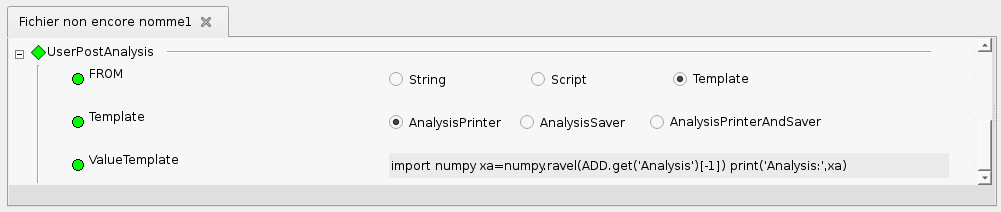
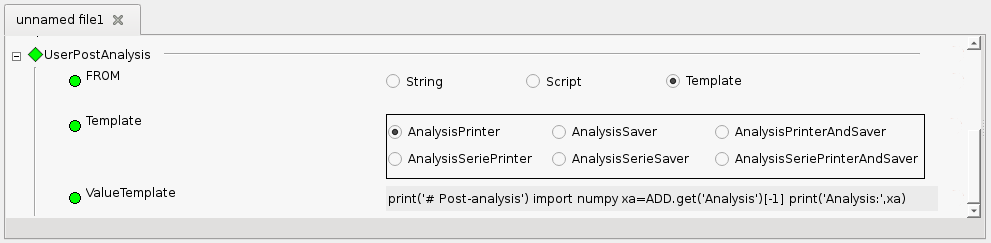
Minor documentation and code review corrections (6)

diff --git a/bin/AdaoCatalogGenerator.py b/bin/AdaoCatalogGenerator.py
@@ -166,15 +166,24 @@ def F_{data_name}(statut, fv=NoCheckInNS) : return FACT(
         SCRIPTWITHSWITCH_FILE = SIMP(statut = "o", typ = "FichierNoAbs", validators=[OnlyStr(), FileExtVal('py')], fr="En attente d'un nom de fichier script, avec ou sans le chemin complet pour le trouver, contenant un switch pour les calculs direct, tangent et adjoint", ang="Waiting for a script file name, with or without the full path to find it, containing a switch for direct, tangent and adjoint computations"),
         ),
     TEMPLATE_DATA =  BLOC (condition = " FROM in ( 'Template', ) ",
-        Template = SIMP(statut = "o", typ = "TXM", min=1, max=1, defaut = "AnalysisPrinter", into=("AnalysisPrinter", "AnalysisSaver", "AnalysisPrinterAndSaver")),
+        Template = SIMP(statut = "o", typ = "TXM", min=1, max=1, defaut = "AnalysisPrinter", into=("AnalysisPrinter", "AnalysisSaver", "AnalysisPrinterAndSaver", "AnalysisSeriePrinter", "AnalysisSerieSaver", "AnalysisSeriePrinterAndSaver")),
         AnalysisPrinter = BLOC (condition = " Template == 'AnalysisPrinter' ",
-            ValueTemplate = SIMP(statut = "o", typ = "TXM", min=1, max=1, defaut = "import numpy\\nxa=numpy.ravel(ADD.get('Analysis')[-1])\\nprint('Analysis:',xa)" ),
+            ValueTemplate = SIMP(statut = "o", typ = "TXM", min=1, max=1, defaut = "print('# Post-analysis')\\nimport numpy\\nxa=ADD.get('Analysis')[-1]\\nprint('Analysis:',xa)" ),
             ),
         AnalysisSaver = BLOC (condition = " Template == 'AnalysisSaver' ",
-            ValueTemplate = SIMP(statut = "o", typ = "TXM", min=1, max=1, defaut = "import numpy\\nxa=numpy.ravel(ADD.get('Analysis')[-1])\\nf='/tmp/analysis.txt'\\nprint('Analysis saved in \\"%s\\"'%f)\\nnumpy.savetxt(f,xa)" ),
+            ValueTemplate = SIMP(statut = "o", typ = "TXM", min=1, max=1, defaut = "print('# Post-analysis')\\nimport numpy\\nxa=ADD.get('Analysis')[-1]\\nf='/tmp/analysis.txt'\\nprint('Analysis saved in \\"%s\\"'%f)\\nnumpy.savetxt(f,xa)" ),
             ),
         AnalysisPrinterAndSaver = BLOC (condition = " Template == 'AnalysisPrinterAndSaver' ",
-            ValueTemplate = SIMP(statut = "o", typ = "TXM", min=1, max=1, defaut = "import numpy\\nxa=numpy.ravel(ADD.get('Analysis')[-1])\\nprint 'Analysis:',xa\\nf='/tmp/analysis.txt'\\nprint('Analysis saved in \\"%s\\"'%f)\\nnumpy.savetxt(f,xa)" ),
+            ValueTemplate = SIMP(statut = "o", typ = "TXM", min=1, max=1, defaut = "print('# Post-analysis')\\nimport numpy\\nxa=ADD.get('Analysis')[-1]\\nprint 'Analysis:',xa\\nf='/tmp/analysis.txt'\\nprint('Analysis saved in \\"%s\\"'%f)\\nnumpy.savetxt(f,xa)" ),
+            ),
+        AnalysisSeriePrinter = BLOC (condition = " Template == 'AnalysisSeriePrinter' ",
+            ValueTemplate = SIMP(statut = "o", typ = "TXM", min=1, max=1, defaut = "print('# Post-analysis')\\nimport numpy\\nxa=ADD.get('Analysis')\\nprint('Analysis:',xa)" ),
+            ),
+        AnalysisSerieSaver = BLOC (condition = " Template == 'AnalysisSerieSaver' ",
+            ValueTemplate = SIMP(statut = "o", typ = "TXM", min=1, max=1, defaut = "print('# Post-analysis')\\nimport numpy\\nxa=ADD.get('Analysis')\\nf='/tmp/analysis.txt'\\nprint('Analysis saved in \\"%s\\"'%f)\\nnumpy.savetxt(f,xa)" ),
+            ),
+        AnalysisSeriePrinterAndSaver = BLOC (condition = " Template == 'AnalysisSeriePrinterAndSaver' ",
+            ValueTemplate = SIMP(statut = "o", typ = "TXM", min=1, max=1, defaut = "print('# Post-analysis')\\nimport numpy\\nxa=ADD.get('Analysis')\\nprint 'Analysis:',xa\\nf='/tmp/analysis.txt'\\nprint('Analysis saved in \\"%s\\"'%f)\\nnumpy.savetxt(f,xa)" ),
             ),
         ),
     )

diff --git a/src/daComposant/daCore/Persistence.py b/src/daComposant/daCore/Persistence.py
@@ -711,7 +711,7 @@ class OneVector(Persistence):
 
 class OneMatrix(Persistence):
     """
-    Classe de stockage d'une matrice de valeurs (numpy.matrix) par pas.
+    Classe de stockage d'une matrice de valeurs homogènes par pas.
     """
     def __init__(self, name="", unit="", basetype = numpy.matrix):
         Persistence.__init__(self, name, unit, basetype)

diff --git a/doc/fr/ref_userpostanalysis_requirements.rst b/doc/fr/ref_userpostanalysis_requirements.rst
@@ -91,21 +91,20 @@ Forme générale d'un script permettant de définir un post-traitement dédié
 Une série de commandes de post-traitement est un script Python spécial, qui est
 automatiquement activée à la fin des calculs d'estimation dans ADAO. Toutes les
 commandes Python, qu'un utilisateur peut ajouter après un calcul ADAO en
-interface graphique TUI, peuvent faire partie de ce post-traitement. Plusieurs
+interface graphique GUI, peuvent faire partie de ce post-traitement. Plusieurs
 modèles de série de commandes sont disponibles par défaut, essentiellement pour
 donner un exemple le plus simple possible d'enregistrement de ces séries.
 
 Pour être utilisable de manière automatique, il est requis tout appel du cas de
 calcul ADAO, pour récupérer une variable, se fasse uniquement avec le nom
-réservé "*ADD*". A titre d'exemple, voici un script très simple (similaire au
-modèle "*ValuePrinter*"), utilisable pour afficher la valeur de l'estimation
+réservé "*ADD*". A titre d'exemple, voici un script très simple (très similaire
+au modèle "*ValuePrinter*"), utilisable pour afficher la valeur de l'estimation
 optimale :
 ::
 
-    print('# Post-analysis')
     import numpy
     xa = numpy.ravel(ADD.get('Analysis')[-1])
-    print('Analysis',xa)
+    print('  === Analysis =',xa)
 
 Si la commande "*ADD.get(...)*", utilisée pour l'obtention d'une variable
 résultat, n'utilise pas le nom réservé "*ADD*" pour le cas de calcul, alors
@@ -144,7 +143,7 @@ Imprime sur la sortie standard la valeur optimale.
 
     print('# Post-analysis')
     import numpy
-    xa=numpy.ravel(ADD.get('Analysis')[-1])
+    xa=ADD.get('Analysis')[-1]
     print('Analysis',xa)
 
 .. index:: single: AnalysisSaver (Observer)
@@ -158,7 +157,7 @@ Enregistre la valeur optimale dans un fichier du répertoire '/tmp' nommé 'anal
 
     print('# Post-analysis')
     import numpy
-    xa=numpy.ravel(ADD.get('Analysis')[-1])
+    xa=ADD.get('Analysis')[-1]
     f='/tmp/analysis.txt'
     print('Analysis saved in "%s"'%f)
     numpy.savetxt(f,xa)
@@ -174,7 +173,54 @@ Imprime sur la sortie standard et, en même temps enregistre dans un fichier du 
 
     print('# Post-analysis')
     import numpy
-    xa=numpy.ravel(ADD.get('Analysis')[-1])
+    xa=ADD.get('Analysis')[-1]
+    print 'Analysis',xa
+    f='/tmp/analysis.txt'
+    print('Analysis saved in "%s"'%f)
+    numpy.savetxt(f,xa)
+
+.. index:: single: AnalysisSeriePrinter (Observer)
+
+Modèle **AnalysisSeriePrinter**
+...............................
+
+Imprime sur la sortie standard la série des valeurs optimales.
+
+::
+
+    print('# Post-analysis')
+    import numpy
+    xa=ADD.get('Analysis')
+    print('Analysis',xa)
+
+.. index:: single: AnalysisSerieSaver (Observer)
+
+Modèle **AnalysisSerieSaver**
+.............................
+
+Enregistre la série des valeurs optimales dans un fichier du répertoire '/tmp' nommé 'analysis.txt'.
+
+::
+
+    print('# Post-analysis')
+    import numpy
+    xa=ADD.get('Analysis')
+    f='/tmp/analysis.txt'
+    print('Analysis saved in "%s"'%f)
+    numpy.savetxt(f,xa)
+
+.. index:: single: AnalysisSeriePrinterAndSaver (Observer)
+
+Modèle **AnalysisSeriePrinterAndSaver**
+.......................................
+
+Imprime sur la sortie standard et, en même temps enregistre dans un fichier du répertoire '/tmp', la série des valeurs optimales.
+
+::
+
+    print('# Post-analysis')
+    import numpy
+    xa=ADD.get('Analysis')
     print 'Analysis',xa
     f='/tmp/analysis.txt'
     print('Analysis saved in "%s"'%f)

diff --git a/doc/en/ref_userpostanalysis_requirements.rst b/doc/en/ref_userpostanalysis_requirements.rst
@@ -89,21 +89,20 @@ General form of a script to define a dedicated post-processing
 
 A set of post-processing commands is a special Python script, which is
 automatically activated at the end of the estimation calculations in ADAO. Any
-Python commands, which a user can add after a TUI calculation in ADAO, can be
+Python commands, which a user can add after a GUI calculation in ADAO, can be
 part of this post-processing. Several command set templates are available by
 default,essentially to give the simplest possible example of recording these
 series.
 
 To be usable in an automatic way, it is required that any call of the ADAO
 calculation case, to recover a variable, is done only with the reserved name
-"*ADD*". As an example, here is a very simple script (similar to the
+"*ADD*". As an example, here is a very simple script (very similar to the
 "*ValuePrinter*" template), usable to display the value of the optimal
 estimate::
 
-    print('# Post-analysis')
     import numpy
     xa = numpy.ravel(ADD.get('Analysis')[-1])
-    print('Analysis',xa)
+    print('  === Analysis =',xa)
 
 If the command "*ADD.get(...)*", used to obtain a result variable, does not use
 the reserved name "*ADD*" for the calculation case, then the call will lead to
@@ -140,7 +139,7 @@ Print on standard output the optimal value.
 
     print('# Post-analysis')
     import numpy
-    xa=numpy.ravel(ADD.get('Analysis')[-1])
+    xa=ADD.get('Analysis')[-1]
     print('Analysis',xa)
 
 .. index:: single: AnalysisSaver (Observer)
@@ -154,7 +153,7 @@ Save the optimal value in a file of the '/tmp' directory named 'analysis.txt'.
 
     print('# Post-analysis')
     import numpy
-    xa=numpy.ravel(ADD.get('Analysis')[-1])
+    xa=ADD.get('Analysis')[-1]
     f='/tmp/analysis.txt'
     print('Analysis saved in "%s"'%f)
     numpy.savetxt(f,xa)
@@ -170,7 +169,54 @@ Print on standard output and, in the same time save in a file of the '/tmp' dire
 
     print('# Post-analysis')
     import numpy
-    xa=numpy.ravel(ADD.get('Analysis')[-1])
+    xa=ADD.get('Analysis')[-1]
+    print 'Analysis',xa
+    f='/tmp/analysis.txt'
+    print('Analysis saved in "%s"'%f)
+    numpy.savetxt(f,xa)
+
+.. index:: single: AnalysisSeriePrinter (Observer)
+
+Modèle **AnalysisSeriePrinter**
+...............................
+
+Print on standard output the optimal value series.
+
+::
+
+    print('# Post-analysis')
+    import numpy
+    xa=ADD.get('Analysis')
+    print('Analysis',xa)
+
+.. index:: single: AnalysisSerieSaver (Observer)
+
+Modèle **AnalysisSerieSaver**
+.............................
+
+Save the optimal value series in a file of the '/tmp' directory named 'analysis.txt'.
+
+::
+
+    print('# Post-analysis')
+    import numpy
+    xa=ADD.get('Analysis')
+    f='/tmp/analysis.txt'
+    print('Analysis saved in "%s"'%f)
+    numpy.savetxt(f,xa)
+
+.. index:: single: AnalysisSeriePrinterAndSaver (Observer)
+
+Modèle **AnalysisSeriePrinterAndSaver**
+.......................................
+
+Print on standard output and, in the same time save in a file of the '/tmp' directory, the optimal value series.
+
+::
+
+    print('# Post-analysis')
+    import numpy
+    xa=ADD.get('Analysis')
     print 'Analysis',xa
     f='/tmp/analysis.txt'
     print('Analysis saved in "%s"'%f)

diff --git a/doc/fr/ref_algorithm_EnsembleBlue.rst b/doc/fr/ref_algorithm_EnsembleBlue.rst
@@ -72,6 +72,7 @@ StoreSupplementaryCalculations
   de cette documentation par algorithme spécifique, dans la sous-partie
   "*Informations et variables disponibles à la fin de l'algorithme*") : [
   "Analysis",
+  "CurrentOptimum",
   "CurrentState",
   "Innovation",
   "SimulatedObservationAtBackground",
@@ -95,6 +96,8 @@ StoreSupplementaryCalculations
 .. include:: snippets/Header2Algo05.rst
 
 .. include:: snippets/Analysis.rst
+
+.. include:: snippets/CurrentOptimum.rst
 
 .. include:: snippets/CurrentState.rst
 

diff --git a/doc/en/ref_algorithm_EnsembleBlue.rst b/doc/en/ref_algorithm_EnsembleBlue.rst
@@ -72,6 +72,7 @@ StoreSupplementaryCalculations
   sub-section "*Information and variables available at the end of the
   algorithm*"): [
   "Analysis",
+  "CurrentOptimum",
   "CurrentState",
   "Innovation",
   "SimulatedObservationAtBackground",
@@ -95,6 +96,8 @@ StoreSupplementaryCalculations
 .. include:: snippets/Header2Algo05.rst
 
 .. include:: snippets/Analysis.rst
+
+.. include:: snippets/CurrentOptimum.rst
 
 .. include:: snippets/CurrentState.rst
 
